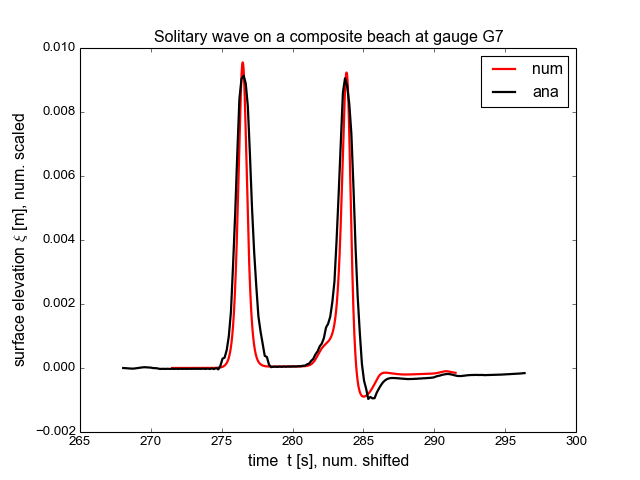
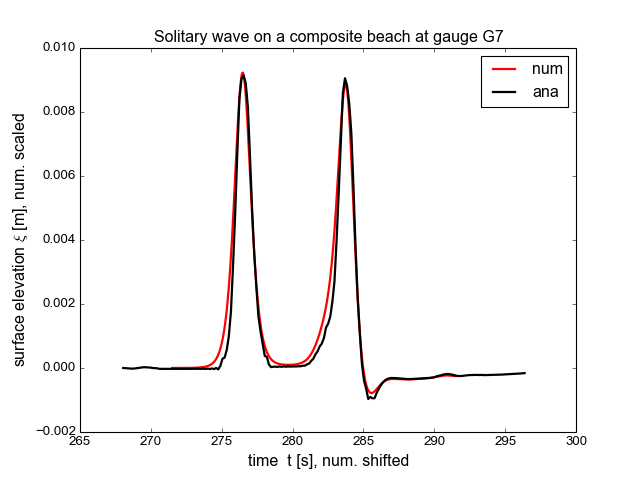
added more text to composite beach, added figures to compare Lhy model with lab data

Changed region(s): [[0.3125, 0.1562, 0.7188, 0.8438], [0.375, 0.125, 0.4062, 0.1562]]

diff --git a/doc/papers/theoretical_1d/B_compositebeach.tex b/doc/papers/theoretical_1d/B_compositebeach.tex
@@ -1,7 +1,8 @@
 %!TEX root = paper.tex
 \subsection{Solitary wave on a composite beach}
 This is an laboratory experiment conducted at the Coastal Engineering Laboratory of the U.S. Army Corps of Engineers and it is described in \url{http://nctr.pmel.noaa.gov/benchmark/Solitary_wave/}, \url{http://chl.erdc.usace.army.mil/chl.aspx?p=s&a=Projects;36}. 
-A linear solitary (better called single?) wave is propagating over a stepwise increasing bathymetry and it is reflected at a vertical wall on the right boundary. Different wave gauges measure the surface elevation and the runup on the vertical wall.
+A linear solitary (better called single?) wave is propagating over a stepwise increasing bathymetry and it is reflected at a vertical wall on the right boundary. Different wave gauges measure the surface elevation and the runup on the vertical wall. 
+The experimental data serve for validation of the models. Additionally to the experimental data, a linear analytic solution is provided, s.t. verification of our models is also tested.
 
 Three different cases A, B, C with different target wave heights $a_t$, actual (measured) wave heights $a$ and distances $L$ of gauge $G4$ to the first step in the bathymetry at gauge $G5$. Table \ref{tab:compositebeach_cases} displays the three different cases and belonging data. We only consider case A at the moment. Measured runup data can be found in table \ref{tab:compositebeach_runup}, but are not compared yet to the simulations.
 
@@ -11,7 +12,7 @@ Three different cases A, B, C with different target wave heights $a_t$, actual (
 \toprule
 A       &     0.05   & 0.039    &   2.4   &  10.59     \\
 B       &     0.30   & 0.264    &   0.89  &   9.17     \\
-C       &     0.70   & 0.696    &    0.64  &   8.83     \\
+C       &     0.70   & 0.696    &    0.64  &   8.83    \\
 \bottomrule
 \end{tabular}
 \caption{Data of three different cases}
@@ -23,9 +24,9 @@ C       &     0.70   & 0.696    &    0.64  &   8.83     \\
 \begin{tabular}{lll}
 \textbf{Case} & \textbf{Runup R [cm]} & \textbf{R / d} \\
 \toprule
-A       &        2.74   &  0.13 \\
-B       &         45.72  &   2.10\\
-C       &        27.43  &   1.26 \\
+A       &        2.74  &  0.13 \\
+B       &       45.72  &  2.10 \\
+C       &       27.43  &  1.26 \\
 \bottomrule
 \end{tabular}
 \caption{Runup laboratory results of three different cases}
@@ -33,14 +34,18 @@ C       &        27.43  &   1.26 \\
 \end{table}
 
 
-The initial condition is prescribed as a linear analytic solitary wave solution
+The initial condition is prescribed as 
+\begin{itemize}
+ \item a linear analytic solitary wave solution
 \begin{align}
 \xi(\bx,t)&=a \ \text{cosh}^{-2}(K(x-ct-x_0)), \\
 u(\bx,t)&=c\frac{\xi(\bx,t)}{d},
 \end{align}
-with the initial amplitude $a$, propagation velocity $c=\csw$ on a stepwise reduced depth starting from $d=0.218 \, \text{m}$ with scale factor $K=\sqrt{\left(\frac{3a}{4d^3}\right)}$ and displacement $x_0=10.59$, s.t. the initial solitary wave has its maximum at gauge G4 with an entire domain length of $L=24 \, \text{m}$. The simulation time is $20$ seconds. 
-
-We impose reflecting boundary conditions at the boundary in x-direction and periodic boundary conditions in y.direction. For the setup see figure \ref{fig:compositebeach_setup}. In both cases, the results are shifted by 271.5s to match the initial wave at gauge G4.
+with the initial actual amplitude $a$, propagation velocity $c=\csw$ on a stepwise reduced depth starting from $d=0.218 \, \text{m}$ with scale factor $K=\sqrt{\left(\frac{3a}{4d^3}\right)}$ and displacement $x_0=10.59$, s.t. the initial solitary wave has its maximum at gauge G4 while the entire domain length is $L=24 \, \text{m}$. The simulation time is $20$ seconds. 
+ \item the first option in \url{https://github.com/rjleveque/nthmp-benchmark-problems/blob/master/BP05-ElenaT-Solitary_wave_on_composite_beach_laboratory/BP5_description.pdf}. The velocities are set to zero and the doubled initial surface elevation $2\xi$ is prescribed at $x=0$. A doubled domain length of $L=48 \, \text{m}$ ensures that the waves reflected at the left boundary are not disturbing the solution. The simulation time is $40$ seconds.
+\end{itemize}
+We impose reflecting boundary conditions at the boundary in x-direction and periodic boundary conditions in y-direction. For the setup see figure \ref{fig:compositebeach_setup}. 
+Because the analytic solution belongs to the linear SWE, corresponding models are expected to represent very good coincidence with this analytic solution.
 
 \begin{figure}[htbp]
 \includegraphics[width=\textwidth]{compositebeach_setup}
@@ -49,7 +54,11 @@ We impose reflecting boundary conditions at the boundary in x-direction and peri
 \end{figure}
 
 \subsubsection{Results of \nh\ model}
-The linear SWE model results can be found in figure \eqref{fig:nh_compositebeach_ana_nh_Lhy}.
+The results of the first and the seconds option are shifted by 271.5s and by 262.8s, respectively, to match the initial wave at gauge G4. Both are also scaled with a factor of 0.75.
+No difference between both options is visible in the figures then. Hence, we only plot the results of the (cheaper) first option using the linear SWE model and also the following results obtained with the \nh\ model.
+Figures \eqref{fig:nh_compositebeach_ana_nh_Lhy} and \eqref{fig:nh_compositebeach_lab_nh_Lhy} display the comparison of the linear SWE with the linear analytic solution and experimental data, respectively.
+The models results compared to the analytic solution are very good, while at gauges G9 and G10 a mismatch is visible, because this is a nonlinear regime (d $\in [0.047,0.117]$m, $a=0.039$m), for which the linear model is not suited.
+The comparison to the experimental data reveals less dispersion and reduced amplitudes, although the overall match is also satisfactory.
 
 \begin{figure}[htbp]
 \begin{minipage}{\textwidth}
@@ -71,4 +80,35 @@ The linear SWE model results can be found in figure \eqref{fig:nh_compositebeach
 \caption{Comparison of the analytical (black) sea surface height of the
 solitary wave with the simulation results of the \nh\ model in its version of linear shallow water equations (red)}
 \label{fig:nh_compositebeach_ana_nh_Lhy}
+\end{figure}
+
+\begin{figure}[htbp]
+\begin{minipage}{\textwidth}
+\includegraphics[width=0.48\textwidth]{compositebeach_lab_G4_nh_Lhy}
+\includegraphics[width=0.48\textwidth]{compositebeach_lab_G5_nh_Lhy}
+\end{minipage} \\
+\begin{minipage}{\textwidth}
+\includegraphics[width=0.48\textwidth]{compositebeach_lab_G6_nh_Lhy}
+\includegraphics[width=0.48\textwidth]{compositebeach_lab_G7_nh_Lhy}
+\end{minipage} \\
+\begin{minipage}{\textwidth}
+\includegraphics[width=0.48\textwidth]{compositebeach_lab_G8_nh_Lhy}
+\includegraphics[width=0.48\textwidth]{compositebeach_lab_G9_nh_Lhy}
+\end{minipage} \\
+\begin{minipage}{0.48\textwidth}
+\includegraphics[width=\textwidth]{compositebeach_lab_G10_nh_Lhy}
+\end{minipage} 
+\qquad 
+\begin{minipage}{0.45\textwidth}
+\begin{tabular}{lll}
+\textbf{Data} & \textbf{Runup} & \textbf{R / d} \\
+              & \textbf{R [cm]} &  \\
+\toprule
+Exp.  &  2.74   &  0.13 \\
+Model &  2.16   &  0.10 \\
+\end{tabular}
+\end{minipage}
+\caption{Comparison of the experimental (black) sea surface height of the
+solitary wave with the simulation results of the \nh\ model in its version of linear shallow water equations (red). The model runup is also scaled with 0.75.}
+\label{fig:nh_compositebeach_lab_nh_Lhy}
 \end{figure}
